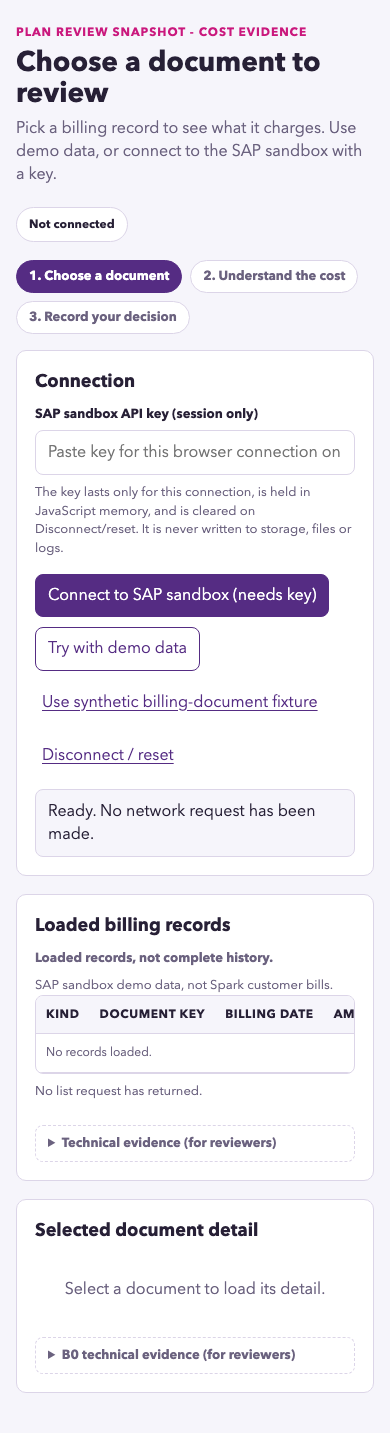
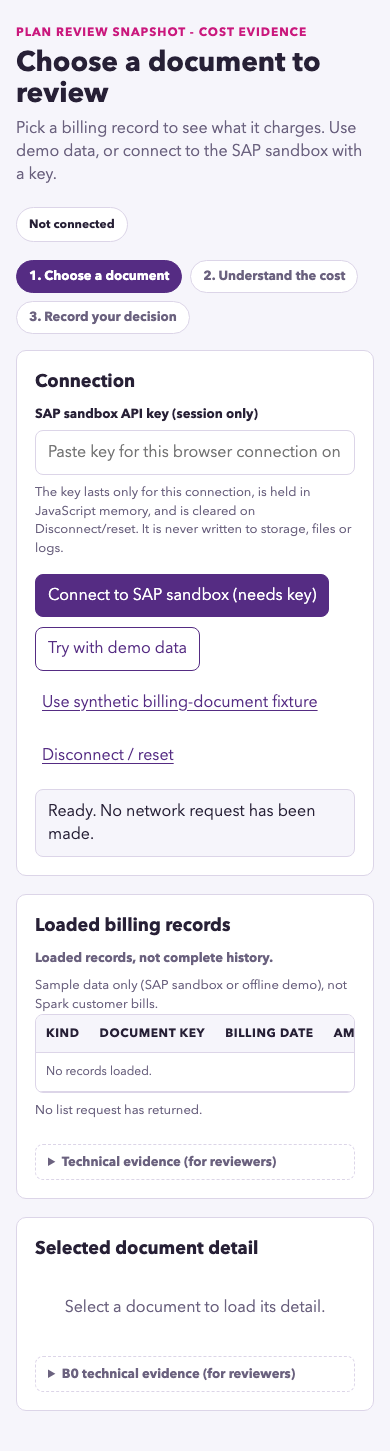
docs(#36): refresh after screenshots and records for the review fixes

diff --git a/docs/development/issue-36-opencode.md b/docs/development/issue-36-opencode.md
@@ -13,10 +13,10 @@
   kept separately in [issue-36-acceptance.md](../validation/issue-36-acceptance.md), and the
   before/after captures are in `docs/validation/issue-36-*-*.png`.
 
-## Prompts used (Parts 0–5)
+## Prompts used (Parts 0–6)
 
-The user issued five sequential work orders, each a self-contained part of the same task,
-plus this final packaging part. In summary:
+The user issued six sequential work orders, each a self-contained part of the same task.
+In summary:
 
 1. **Part 0 — setup and baseline.** Create `feat/36-usability-hierarchy` from `origin/main`;
    read Issue #36 for background only; record the baseline `npm test` result; add a
@@ -36,6 +36,10 @@ plus this final packaging part. In summary:
    the affected test expectations, and add five new `issue 36` tests.
 6. **Part 5 — packaging.** Capture before/after screenshots, write this record and the
    acceptance record, commit, push and open the pull request.
+7. **Part 6 — review fixes.** Make the sample-data wording true in every data mode; keep
+   the top status line current when the decision step opens, when going back to cost
+   evidence, and after a verified save; add one test for the step indicator, the lead text
+   and those status lines; re-take the "after" screenshots; and refresh both records.
 
 Only the files named in each part were touched. `app/lib/`, `app/server.js`, `app/package.json`
 and `app/package-lock.json` were never modified, no package was installed, and no new file
@@ -51,8 +55,9 @@ was added under `app/`.
 | 3 | `c5074309cd1244049ab4198f8b1043dc65faedd7` | `app/index.html`, `app/styles.css`, `app/app.mjs` | 167/167 pass; FAIL list unchanged |
 | 4 | `d51c9c6e187dfde4d9f7ea63e93ba75e7118da13` | `app/index.html`, `app/styles.css`, `app/app.mjs`, `app/tests/browser.mjs`, `app/tests/issue-27.mjs`, `app/README.md`, `README-SOURCE.md` | 172/172 pass (167 + 5 new); FAIL list unchanged |
 | 5 | (this record's commit) | `docs/validation/issue-36-*.png`, `docs/validation/issue-36-acceptance.md`, `docs/development/issue-36-opencode.md` | 172/172 pass on the unchanged code head |
+| 6 | `d71cb9896d092e68f196a842319052a374f5ac3e` | `app/index.html`, `app/app.mjs`, `app/tests/browser.mjs`, `docs/validation/issue-36-after-*.png`, `docs/validation/issue-36-acceptance.md`, `docs/development/issue-36-opencode.md` | 173/173 pass; FAIL list empty |
 
-Final summary line on the code-bearing head: **`All 172 tests passed.`** No inherited test
+Final summary line on the code-bearing head: **`All 173 tests passed.`** No inherited test
 assertion was weakened; the only test-line edits were the exact expected-UI-string
 replacements listed below.
 
@@ -63,9 +68,9 @@ replacements listed below.
 - `app/tests/issue-27.mjs`: regex `/^Unsaved — storage write or read-back verification failed/`
   → `/^Unsaved — we could not confirm your receipt was saved/`.
 
-## New `issue 36` tests (added in Part 4)
+## New `issue 36` tests (added in Parts 4 and 6)
 
-All five use `rawNewContext` so the UI runs in its real default state (collapsed connection
+All six use `rawNewContext` so the UI runs in its real default state (collapsed connection
 panel, closed disclosures). They passed in the final run:
 
 - `issue 36: connection panel collapses after choosing a source and Change source reopens it by keyboard`
@@ -73,6 +78,7 @@ panel, closed disclosures). They passed in the final run:
 - `issue 36: cost amount card shows exact reported amounts without formatting`
 - `issue 36: saved confirmation names the intent, document and gross amount`
 - `issue 36: no horizontal page scroll on all three screens at 390px and 1280px`
+- `issue 36: step indicator, lead text and status follow the current screen`
 
 ## Verification
 
@@ -80,9 +86,6 @@ panel, closed disclosures). They passed in the final run:
   throughout.
 - Part 0 installed the Playwright Chromium browser with `npx playwright install chromium`
   because it was initially missing.
-- The five new tests were additionally checked by hand in a real browser at 1280px and
-  390px (collapse/reopen, keyboard disclosure open, exact amount strings, saved
-  confirmation, no page-level horizontal scroll).
 - Part 5 captured the before/after screenshots from a throwaway script outside the
   repository: "before" from a temporary `origin/main` worktree on port 6290 (removed
   afterwards), "after" from this branch on port 6291. No `app/` file was changed in Part 5.

diff --git a/docs/validation/issue-36-acceptance.md b/docs/validation/issue-36-acceptance.md
@@ -1,9 +1,9 @@
 # Issue #36 acceptance: Billing Review Lite screen hierarchy
 
 17 October 2026. Branch `feat/36-usability-hierarchy`. Code-bearing head tested:
-`d51c9c6e187dfde4d9f7ea63e93ba75e7118da13` (`feat(#36): plain labels, button hierarchy,
-wide layout, error copy and #36 tests`). Screenshots were captured on this head ("after")
-and on `origin/main` `28aee9d` ("before").
+`d71cb9896d092e68f196a842319052a374f5ac3e` (`fix(#36): accurate sample-data wording,
+current status line and step indicator test`). Screenshots were captured on this head
+("after") and on `origin/main` `28aee9d` ("before").
 
 This is a fixture-based browser check. It is not a live SAP run and not a user test. No SAP
 key was used, no upstream request was made, and no participant was involved.
@@ -12,7 +12,7 @@ key was used, no upstream request was made, and no participant was involved.
 
 | Change | Heuristic (Nielsen H1–H10) | Before screenshot | After screenshot | Covering test |
 |---|---|---|---|---|
-| Step indicator and per-screen lead text | H1 Visibility of system status; H4 Consistency and standards | [issue-36-before-01-start.png](issue-36-before-01-start.png) | [issue-36-after-01-start.png](issue-36-after-01-start.png) | `issue 36: no horizontal page scroll on all three screens at 390px and 1280px` (walks all three screens); the retained headings/titles are still asserted by the inherited tests |
+| Step indicator and per-screen lead text | H1 Visibility of system status; H4 Consistency and standards | [issue-36-before-01-start.png](issue-36-before-01-start.png) | [issue-36-after-01-start.png](issue-36-after-01-start.png) | `issue 36: step indicator, lead text and status follow the current screen` |
 | Collapsible connection panel with "Change source" | H8 Aesthetic and minimalist design; H3 User control and freedom | [issue-36-before-02-list-detail.png](issue-36-before-02-list-detail.png) | [issue-36-after-02-list-detail.png](issue-36-after-02-list-detail.png) | `issue 36: connection panel collapses after choosing a source and Change source reopens it by keyboard` |
 | Technical evidence disclosures | H8 Aesthetic and minimalist design; H2 Match between system and the real world | [issue-36-before-03-cost.png](issue-36-before-03-cost.png) | [issue-36-after-03-cost.png](issue-36-after-03-cost.png) | `issue 36: technical evidence is closed by default and opens by keyboard on each screen` |
 | Cost amount card and "What this does not tell you" | H8; H6 Recognition rather than recall; H2 | [issue-36-before-03-cost.png](issue-36-before-03-cost.png) | [issue-36-after-03-cost.png](issue-36-after-03-cost.png) | `issue 36: cost amount card shows exact reported amounts without formatting` |
@@ -23,8 +23,8 @@ key was used, no upstream request was made, and no participant was involved.
 
 ## Test result
 
-- Final `npm test` summary line: **`All 172 tests passed.`** (167 pre-#36 tests + 5 new
-  `issue 36` tests), run on `d51c9c6`.
+- Final `npm test` summary line: **`All 173 tests passed.`** (167 pre-#36 tests + 6 new
+  `issue 36` tests), run on `d71cb98`.
 - Pre-existing failures carried from the Part 0 baseline at `origin/main` `28aee9d`:
   **none** (the baseline FAIL list was empty).
 
@@ -50,3 +50,10 @@ merge.
 - Status messages stay in the connection area, which remains visible when collapsed.
 - Pre-#36 browser tests run through a harness that opens all disclosures and keeps the
   connection form visible. New `issue 36` tests check the real collapsed defaults.
+- P1-4 (loading and error messages next to the action) is not implemented. Status and error
+  messages stay in the top status area, which remains visible on every screen when the
+  connection panel is collapsed, and it is updated at each step.
+- Disconnect / reset is still shown before a source is connected.
+- The page summary under the list ("a supported continuation is available") and the saved
+  status ("receipt write and read-back verified") keep their existing wording, because many
+  existing tests assert it.
